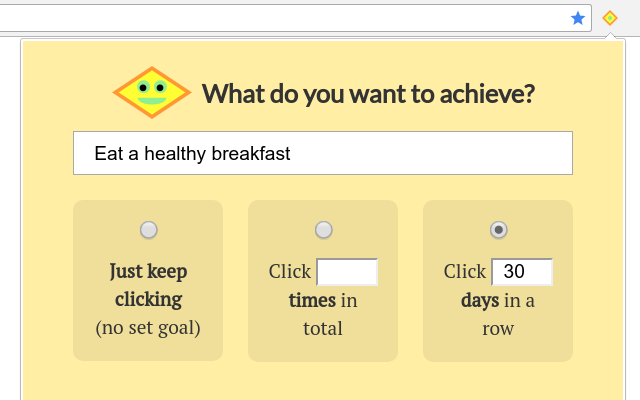
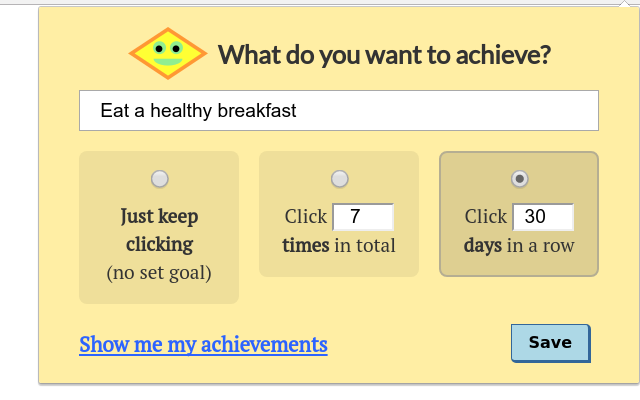
Update goalType selection styling

diff --git a/src/components/Form.vue b/src/components/Form.vue
@@ -13,7 +13,9 @@
 
     <ul class="form__goal-list">
       <li class="form__goal-item">
-        <label for="noGoalRadio" class="form__goal-label">
+        <label for="noGoalRadio"
+               class="form__goal-label"
+               :class="{ 'form__goal-label--selected': form.goalType === null }">
           <input
             class="form__goal-type"
             type="radio"
@@ -29,7 +31,9 @@
       </li>
 
       <li class="form__goal-item">
-        <label for="numberOfClicksRadio" class="form__goal-label">
+        <label for="numberOfClicksRadio"
+               class="form__goal-label"
+               :class="{ 'form__goal-label--selected': form.goalType === 'NUMBER_OF_CLICKS' }">
           <input
             class="form__goal-type"
             type="radio"
@@ -54,7 +58,9 @@
       </li>
 
       <li class="form__goal-item">
-        <label for="clicksPerDayRadio" class="form__goal-label">
+        <label for="clicksPerDayRadio"
+               class="form__goal-label"
+               :class="{ 'form__goal-label--selected': form.goalType === 'DAYS_IN_A_ROW' }">
           <input
             class="form__goal-type"
             type="radio"
@@ -232,12 +238,18 @@
 
   .form__goal-label {
     background-color: #efdf9a;
+    border: 0.125rem solid transparent;
     border-radius: 0.5rem;
     align-items: center;
     display: flex;
     flex-direction: column;
-    padding: 1rem;
+    padding: 1rem 0.5rem;
     text-align: center;
+  }
+
+  .form__goal-label--selected {
+    background-color: #decf91;
+    border-color: #b5ae92;
   }
 
   .form__goal-list {
